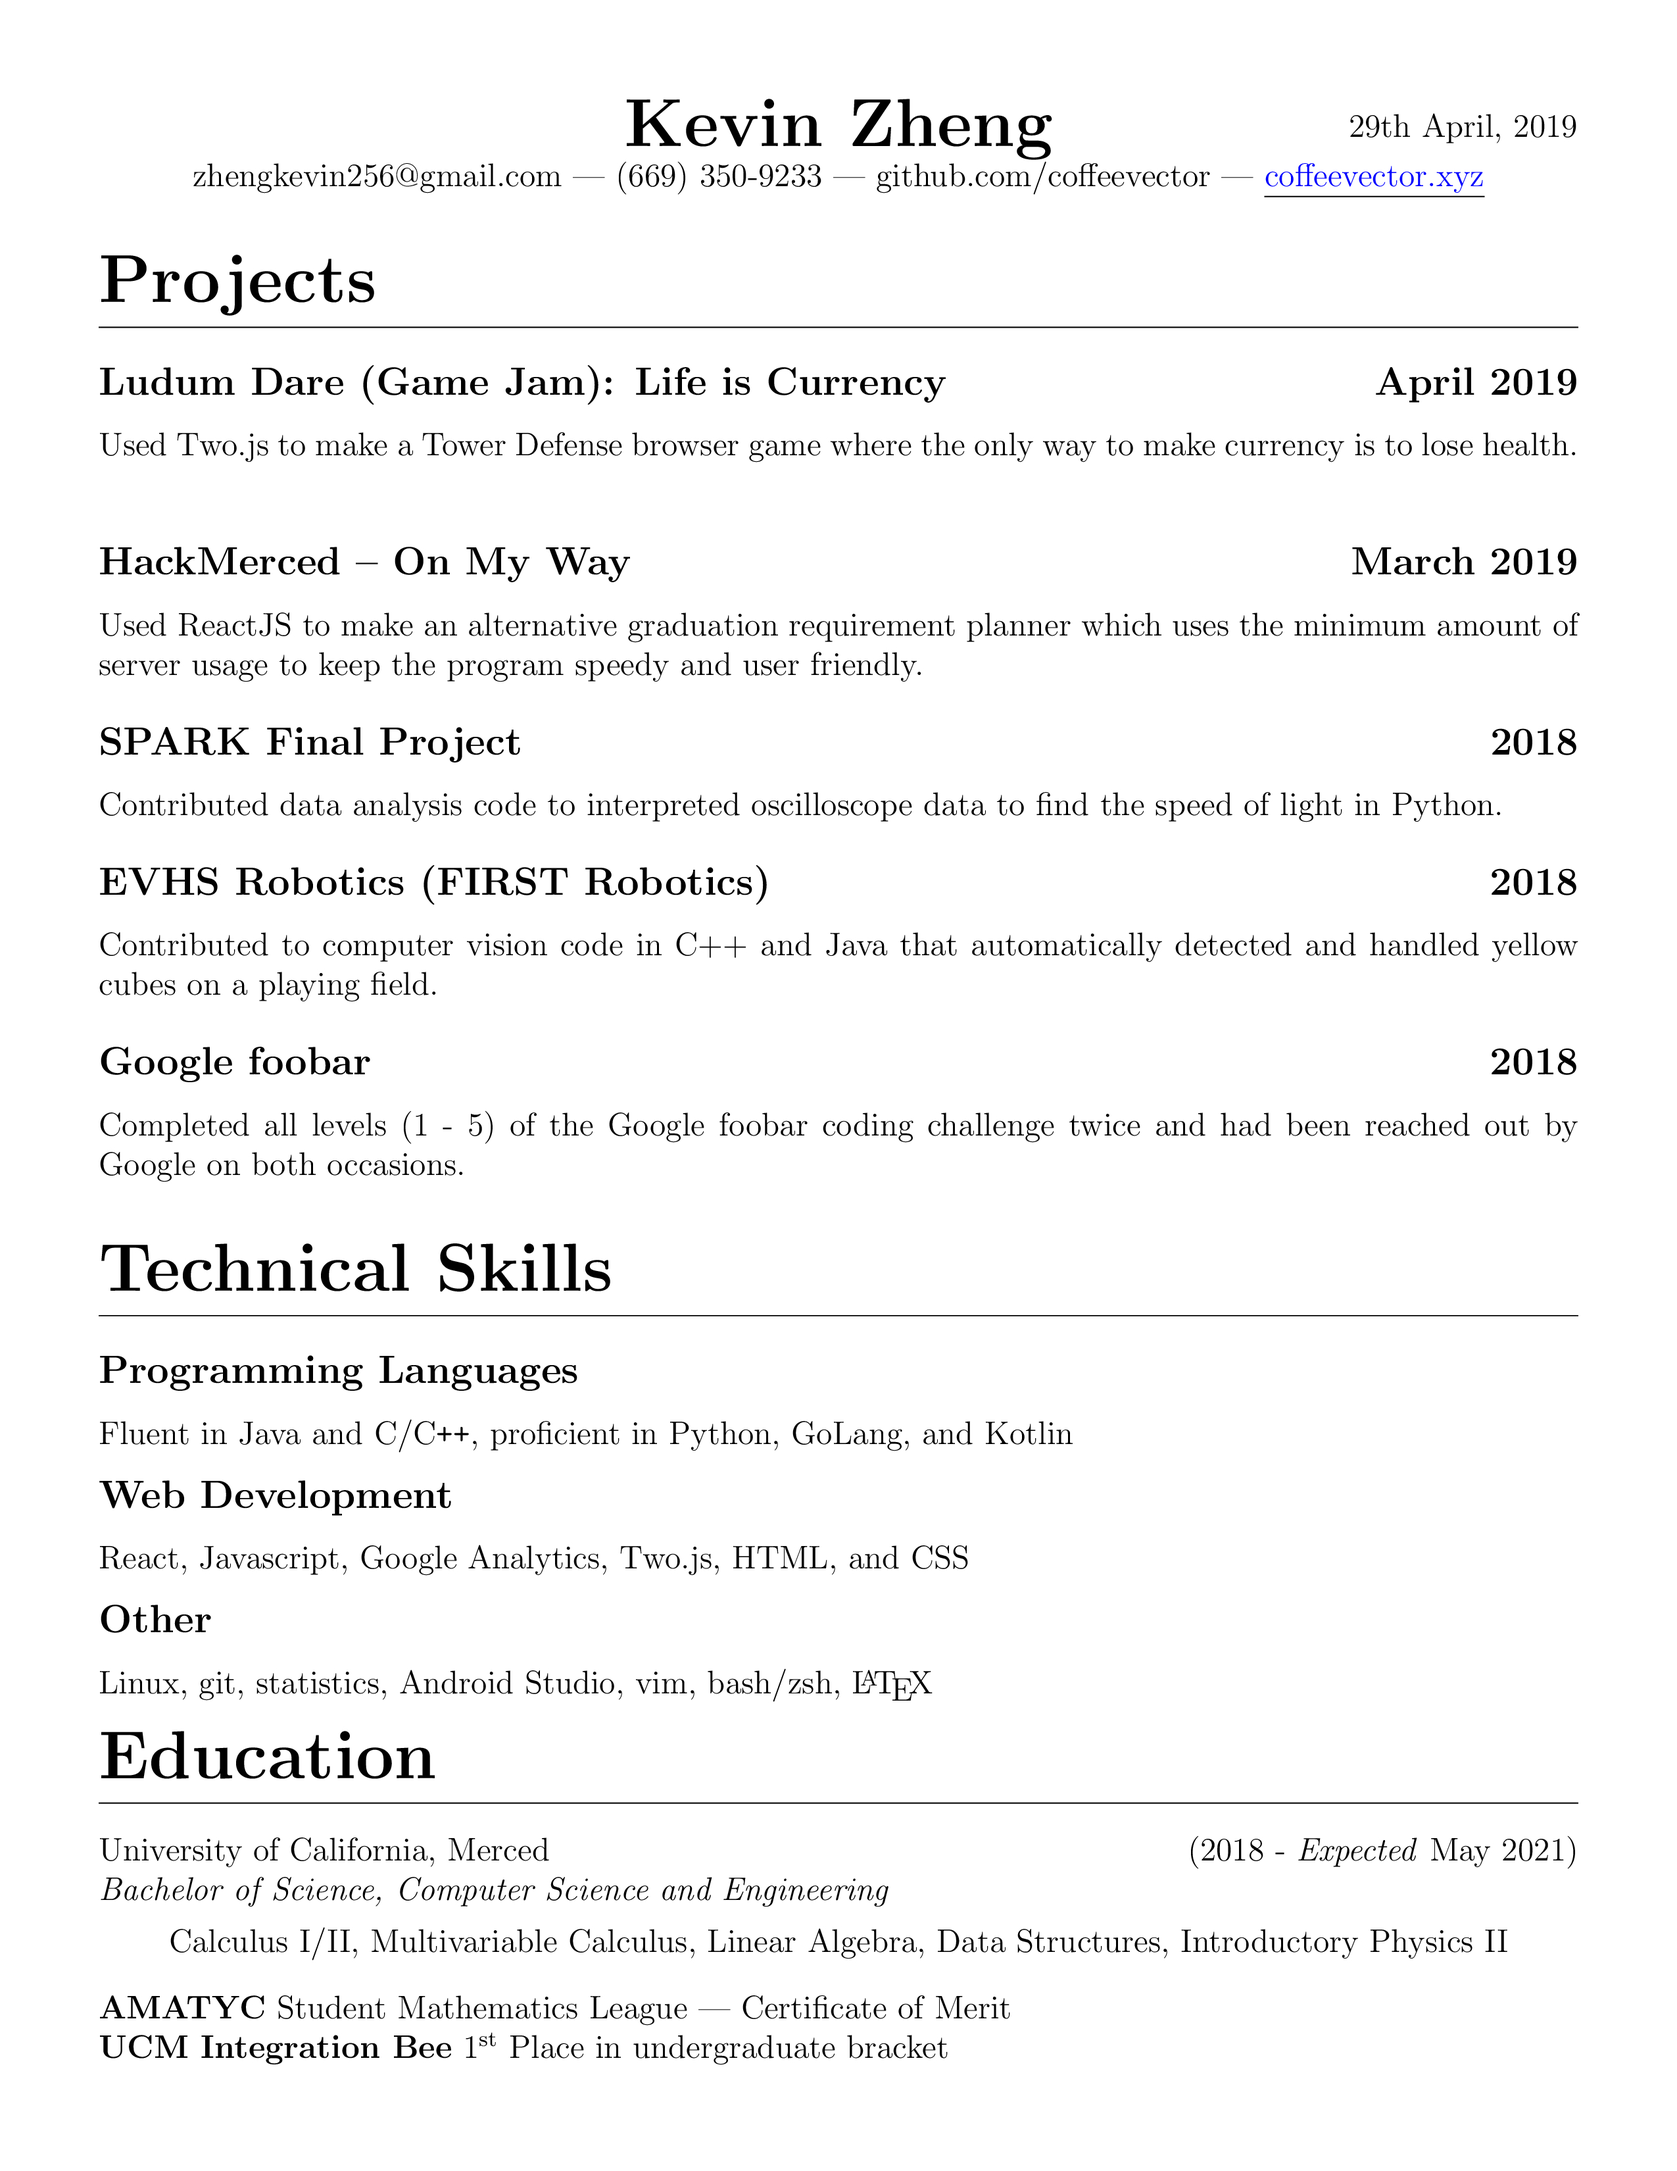
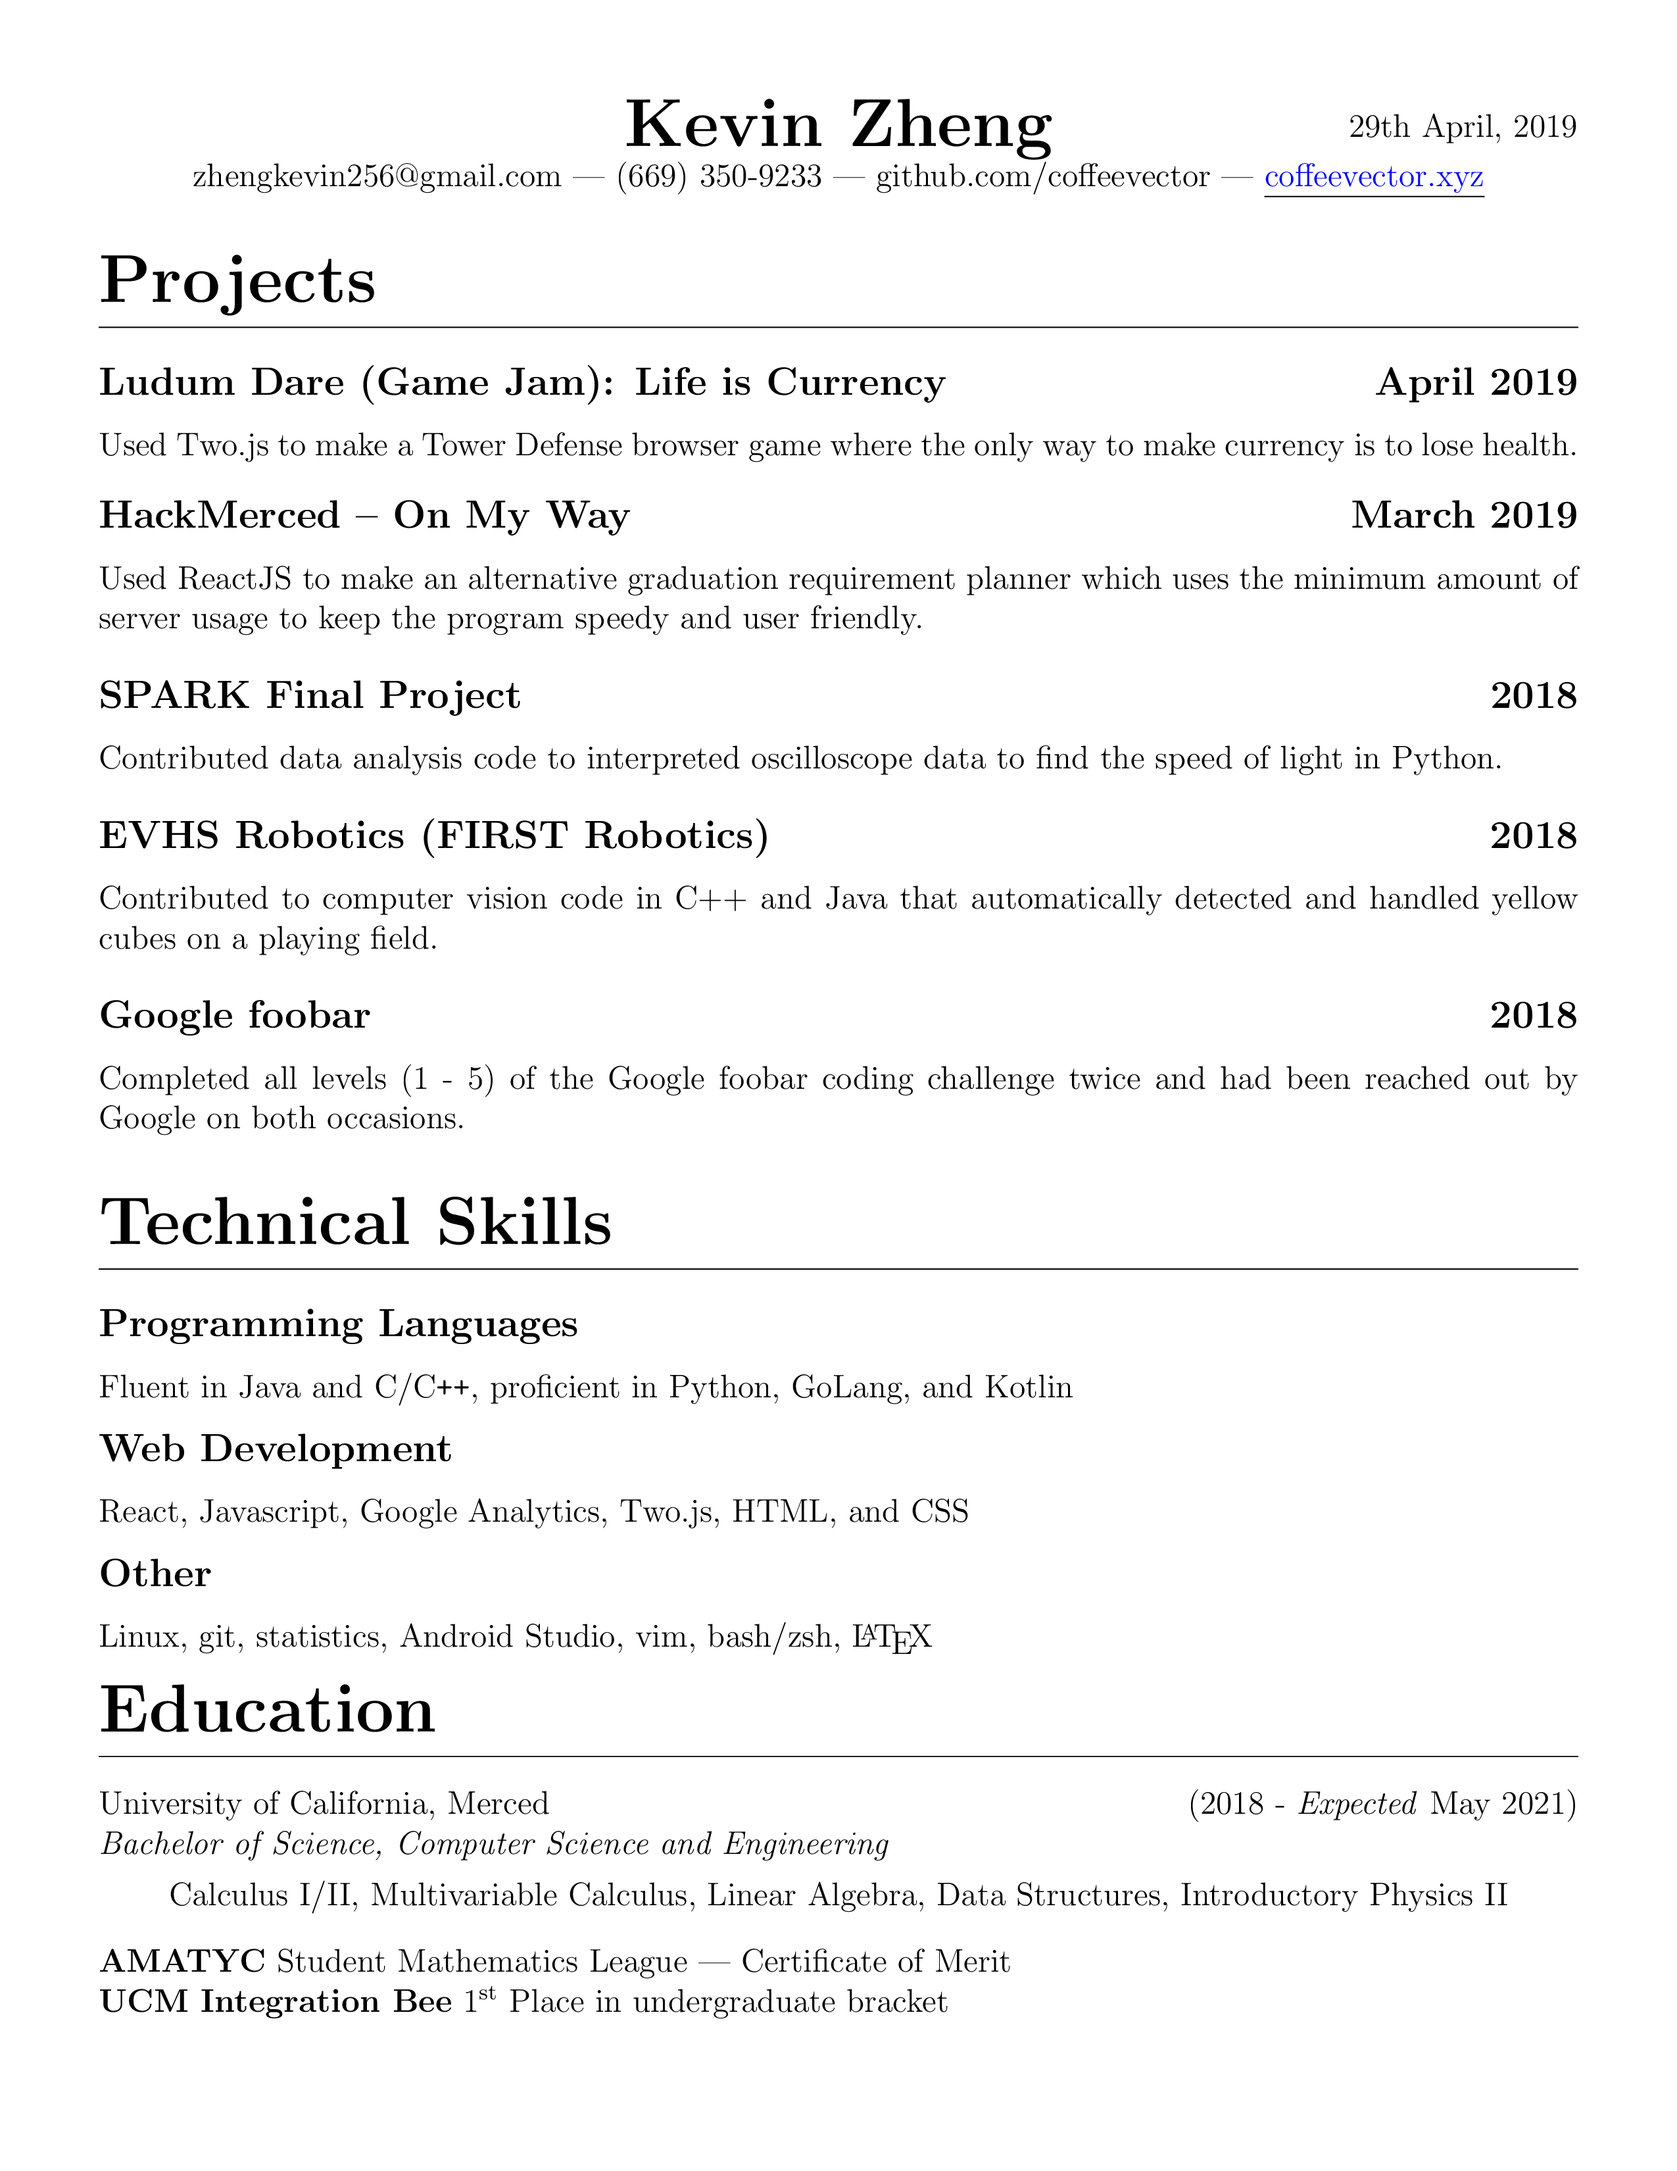
Removed empty space

diff --git a/projects/ludumdare.tex b/projects/ludumdare.tex
@@ -2,5 +2,5 @@
 \begin{document}
 	\subsection{Ludum Dare (Game Jam): Life is Currency\null\hfill April 2019}
 	\par Used Two.js to make a Tower Defense browser game where the only way to make currency is to lose health.
-	\vspace*{-2mm}
+	\vspace*{-8mm}
 \end{document}
